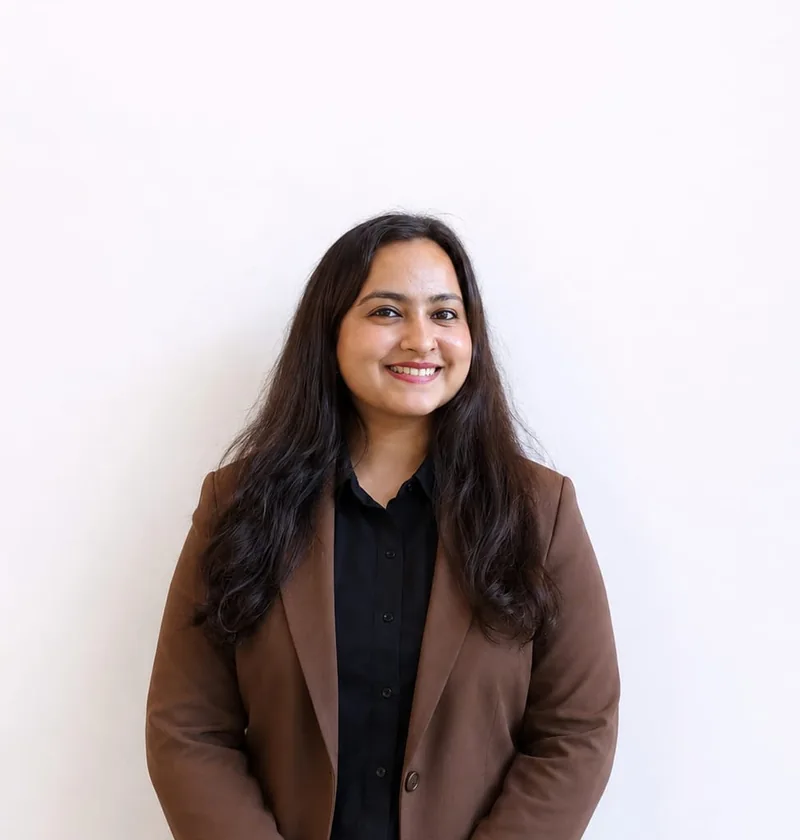
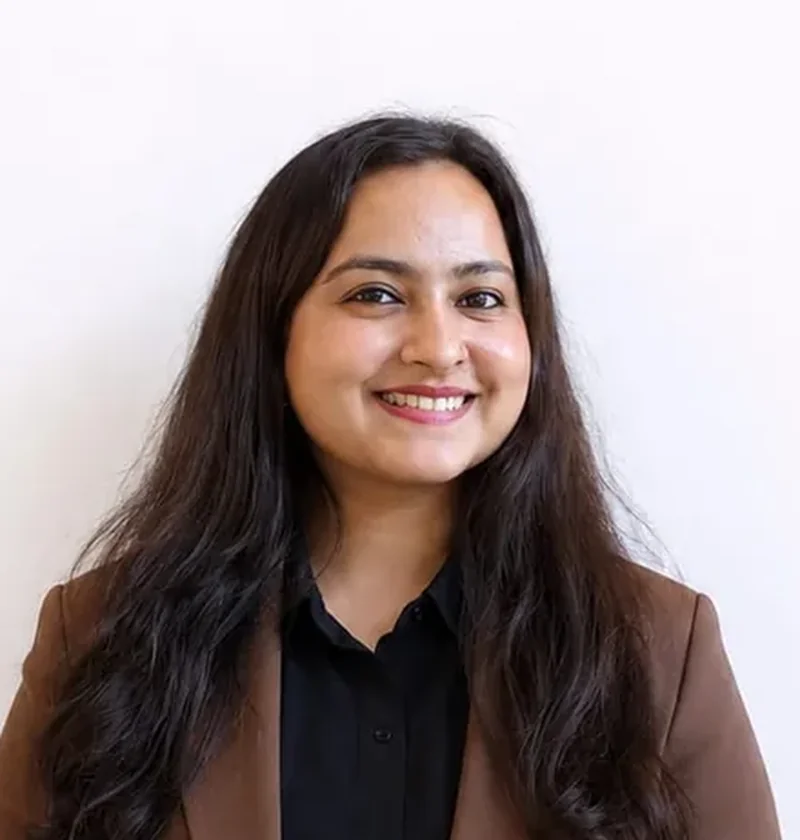
About page: photos for Karishma and Himanshu, Gargi Koul and Tanvi Chanana photos zoomed in

diff --git a/about.html b/about.html
@@ -208,8 +208,8 @@
         </div>
 
         <ul class="team__grid" role="list">
-          <li class="member member--nophoto" data-reveal style="--i: 0">
-            <span class="member__initial" aria-hidden="true">K</span><!-- photo to come -->
+          <li class="member" data-reveal style="--i: 0">
+            <img src="assets/img/team/karishma.webp" alt="Karishma" loading="lazy" decoding="async">
             <div class="member__info">
               <h3 class="member__name">Karishma</h3>
               <p class="member__role">Architect</p>
@@ -223,7 +223,7 @@
             </div>
           </li>
           <li class="member" data-reveal style="--i: 2">
-            <img src="assets/img/team/gargi-koul.webp" alt="Gargi Koul" loading="lazy" decoding="async">
+            <img src="assets/img/team/gargi-koul.webp?v=2" alt="Gargi Koul" loading="lazy" decoding="async">
             <div class="member__info">
               <h3 class="member__name">Gargi Koul</h3>
               <p class="member__role">Jr. Architect</p>
@@ -271,8 +271,8 @@
               <p class="member__role">Electrician</p>
             </div>
           </li>
-          <li class="member member--nophoto" data-reveal style="--i: 4">
-            <span class="member__initial" aria-hidden="true">H</span><!-- photo to come -->
+          <li class="member" data-reveal style="--i: 4">
+            <img src="assets/img/team/himanshu.webp" alt="Himanshu" loading="lazy" decoding="async">
             <div class="member__info">
               <h3 class="member__name">Himanshu</h3>
               <p class="member__role">Civil Engineer</p>
@@ -293,7 +293,7 @@
             </div>
           </li>
           <li class="member" data-reveal style="--i: 2">
-            <img src="assets/img/team/tanvi-chanana.webp" alt="Tanvi Chanana" loading="lazy" decoding="async">
+            <img src="assets/img/team/tanvi-chanana.webp?v=2" alt="Tanvi Chanana" loading="lazy" decoding="async">
             <div class="member__info">
               <h3 class="member__name">Tanvi Chanana</h3>
               <p class="member__role">Digital Marketing</p>
